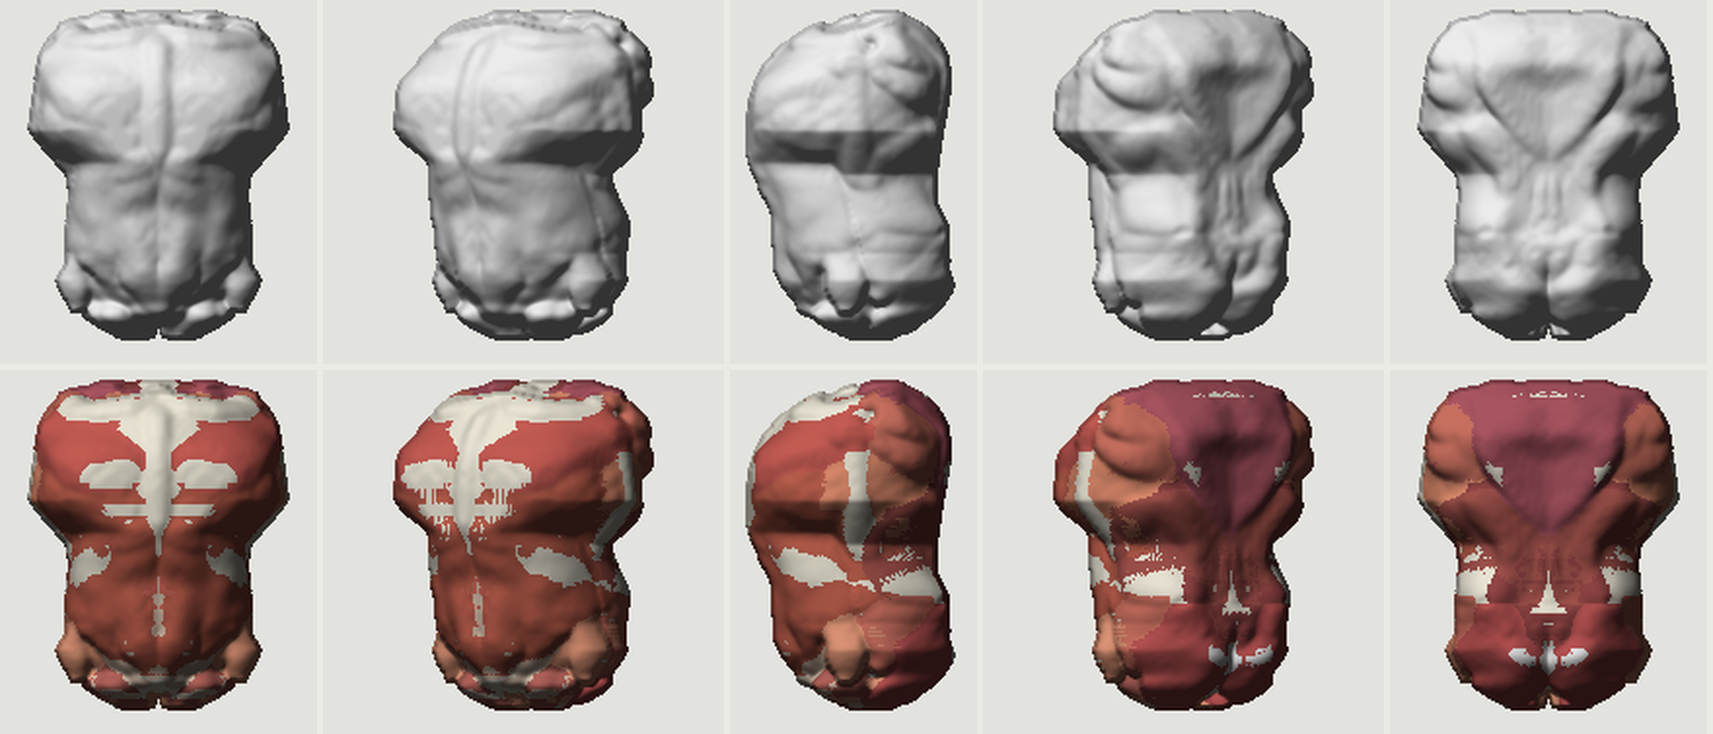
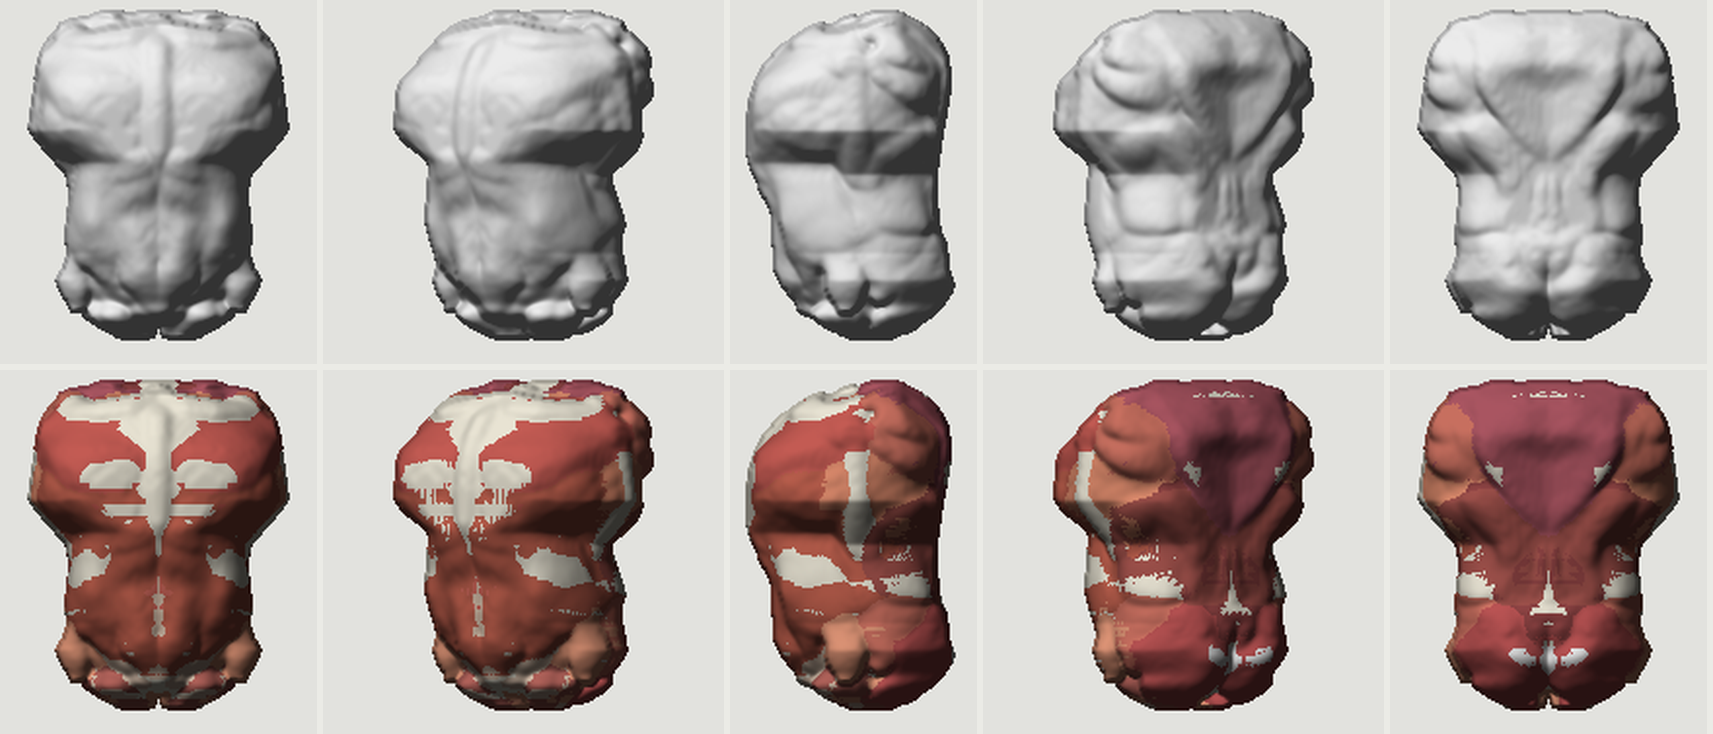
Body 3D: flank fat pad moved to the side and front (50..126 deg around the trunk, was 80..156); prototype M v10 and its fat map

diff --git a/Art/work/transfer-proto/fable-crack/stack3d.py b/Art/work/transfer-proto/fable-crack/stack3d.py
@@ -652,7 +652,7 @@ def build_male(G, T, prm=MALE, ty=None):
 
     # ---- named fat pads (the fat layer itself is solved per body: fat_field)
     soft = dict(prof=1.0, rnd=2, colour=COL["fat"])
-    S.lens("fat pad, flank", "fat", "W", deg([(88, 324), (130, 318), (156, 332), (136, 354), (98, 358), (80, 342)]), 2.5, 16.0, **soft)
+    S.lens("fat pad, flank", "fat", "W", deg([(58, 324), (100, 318), (126, 332), (106, 354), (68, 358), (50, 342)]), 2.5, 16.0, **soft)
     S.lens("fat pad, lower abdomen", "fat", "F", [(0, 362), (26, 362), (40, 378), (30, 394), (12, 399), (0, 399)], 2.2, 16.0, **soft)
     S.lens("fat pad, pubis", "fat", "F", [(0, 392), (10, 392), (16, 400), (9, 409), (0, 409)], 4.0, 7.0, **soft)
     S.lens("fat pad, lower medial gluteal", "fat", "B", [(4, 382), (24, 379), (40, 390), (30, 402), (8, 404)], 2.5, 12.0, **soft)
